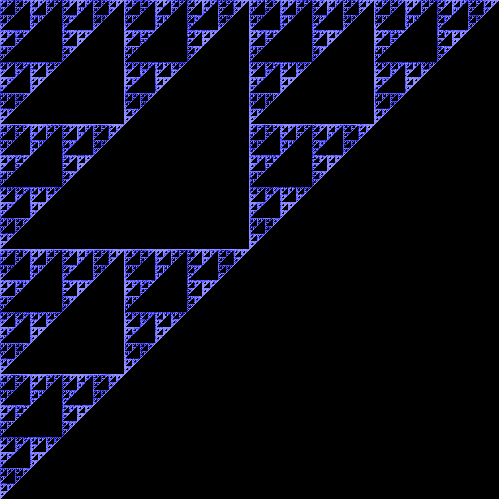
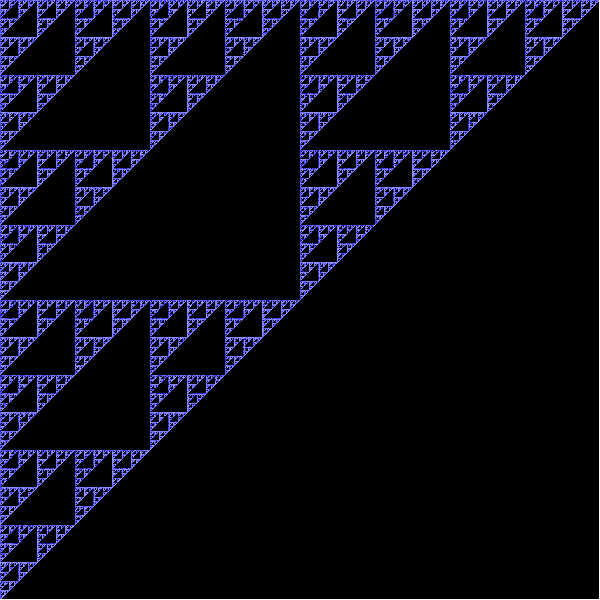
flame fractal use HistogramBuilder

Changed region(s): [[0.0, 0.0, 1.0, 1.0]]

diff --git a/fractatoe/src/fractals/flame.rs b/fractatoe/src/fractals/flame.rs
@@ -10,18 +10,6 @@ use crate::fractals::histogram::{F64Color, Histogram, HistogramBuilder};
 
 type FlameRng = rand::rngs::StdRng;
 
-fn float_point_to_int_point(
-    (x, y): (f64, f64),
-    width: usize,
-    height: usize,
-    resolution: usize,
-) -> (i32, i32) {
-    (
-        (x * (width * resolution) as f64) as i32 - 1,
-        (y * (height * resolution) as f64) as i32 - 1,
-    )
-}
-
 pub type FlameDistribution = WeightedIndex<u8>;
 // a_j, b_j, c_j, d_j, e_j, f_j j=1...n
 type CoefFlame = (f64, f64, f64, f64, f64, f64);
@@ -71,9 +59,7 @@ pub struct FlameConf {
     flame_distribution: Vec<u8>,
     weight_variation: Vec<f64>,
     coefs_inside: Vec<CoefFlame>,
-    width: usize,
-    height: usize,
-    resolution: usize,
+
     number_points: usize,
     iteration_offset: usize,
     number_iterations: usize,
@@ -105,9 +91,6 @@ impl FlameConf {
             flame_distribution,
             weight_variation: self.weight_variation,
             coefs_inside: self.coefs_inside,
-            width: self.width,
-            height: self.height,
-            resolution: self.resolution,
             number_points: self.number_points,
             number_iterations: self.number_iterations,
             iteration_offset: self.iteration_offset,
@@ -127,23 +110,34 @@ pub struct FlameAlgorithm {
     number_iterations: usize,
     iteration_offset: usize,
 
-    width: usize,
-    height: usize,
-    resolution: usize,
-
     rng: FlameRng,
 }
 
 impl HistogramGeneration for FlameAlgorithm {
-    fn build_histogram(mut self, _: HistogramBuilder) -> Histogram {
-        let mut histogram = Histogram::new(self.width, self.height, self.resolution);
+    fn build_histogram(mut self, builder: HistogramBuilder) -> Histogram {
+        let (x0, y0) = builder.point_top_left();
+        let uniform_distrib_x =
+            rand::distributions::uniform::Uniform::new(x0, x0 + builder.width_real);
+        let uniform_distrib_y =
+            rand::distributions::uniform::Uniform::new(y0, y0 + builder.height_real);
+        let mut histogram =
+            Histogram::new(builder.width_px, builder.height_px, builder.resolution_px);
         for _ in 0..self.number_points {
-            let mut point: FlamePoint = self.rng.gen();
+            // Sample a new point in the window
+            let mut point: FlamePoint = (
+                (
+                    self.rng.sample(uniform_distrib_x),
+                    self.rng.sample(uniform_distrib_y),
+                ),
+                self.rng.gen(),
+            );
+            // Make a few iteration to make an offset
             for _ in 0..self.iteration_offset {
                 point = self.one_round(point);
             }
+
             for _ in 0..self.number_iterations {
-                self.add_point_to_histogram(point, &mut histogram);
+                self.add_point_to_histogram(point, &mut histogram, &builder);
                 point = self.one_round(point);
             }
         }
@@ -177,18 +171,19 @@ impl FlameAlgorithm {
         ((x_current, y_current), color)
     }
 
-    fn add_point_to_histogram(&mut self, point: FlamePoint, histogram: &mut Histogram) {
-        let (x, y) = float_point_to_int_point(point.0, self.width, self.height, self.resolution);
-        if 0 <= x
-            && x < (self.width * self.resolution) as i32
-            && 0 <= y
-            && y < (self.height * self.resolution) as i32
-        {
+    fn add_point_to_histogram(
+        &mut self,
+        point: FlamePoint,
+        histogram: &mut Histogram,
+        builder: &HistogramBuilder,
+    ) {
+        let point_px = builder.real_to_pixel(point.0 .0, point.0 .1);
+        if let Some((x, y)) = point_px {
             let (mut freq, mut color) = histogram.get_cell(x as usize, y as usize);
             freq += 1.;
             color = (color + point.1) / 2.;
 
-            histogram.set_cell(x as usize, y as usize, (freq, color));
+            histogram.set_cell(x, y, (freq, color));
         }
     }
 }

diff --git a/fractatoe/src/fractals/histogram.rs b/fractatoe/src/fractals/histogram.rs
@@ -34,11 +34,28 @@ impl HistogramBuilder {
     }
 
     pub fn pixel_to_real(&self, i: usize, j: usize) -> Option<Point> {
-        if (0..self.width_px).contains(&i) && (0..self.height_px).contains(&j) {
+        if (0..self.width_px * self.resolution_px).contains(&i)
+            && (0..self.height_px * self.resolution_px).contains(&j)
+        {
             Some((
                 i as f64 * self.pixel_width_real(),
                 j as f64 * self.pixel_height_real(),
             ))
+        } else {
+            None
+        }
+    }
+
+    pub fn real_to_pixel(&self, mut x: f64, mut y: f64) -> Option<(usize, usize)> {
+        let (x0, y0) = self.point_top_left();
+        x -= x0;
+        y -= y0;
+        let (i, j) = (x / self.pixel_width_real(), y / self.pixel_height_real());
+        let (i, j) = (i as usize, j as usize);
+        if (0..self.width_px * self.resolution_px).contains(&i)
+            && (0..self.height_px * self.resolution_px).contains(&j)
+        {
+            Some((i, j))
         } else {
             None
         }
